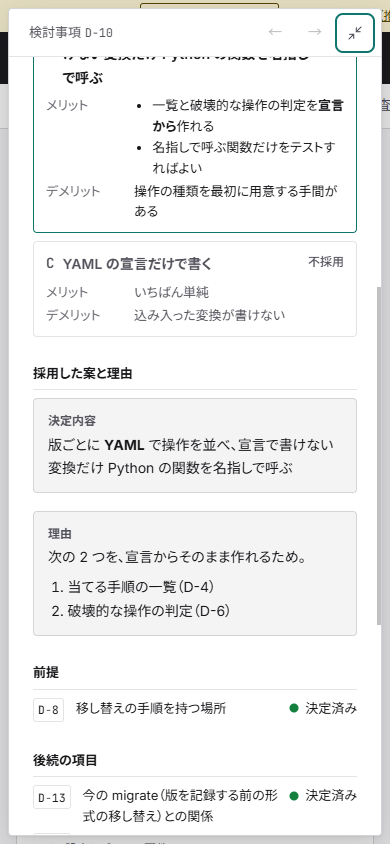
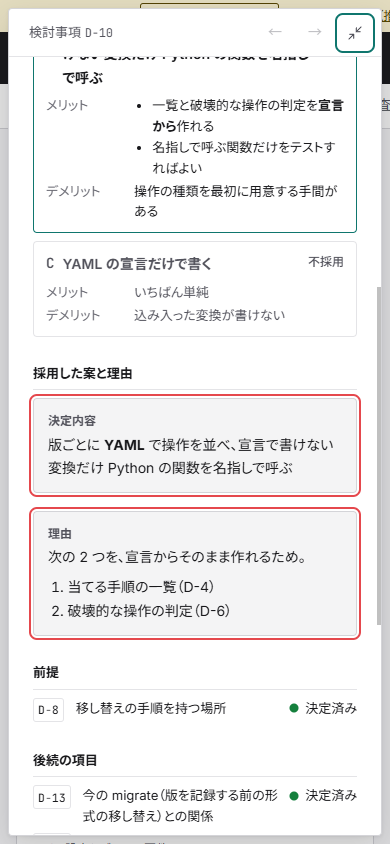
docs: 詳細の全画面のモックの撮影で推奨のバッジと採用した案と理由に赤枠を付けて撮り直す

Changed region(s): [[0.0615, 0.4621, 0.9231, 0.7701], [0.8923, 0.7393, 0.9231, 0.7701], [0.8923, 0.4621, 0.9231, 0.4929]]

diff --git a/dev/mock/refs/127/assets/mock.js b/dev/mock/refs/127/assets/mock.js
@@ -27,6 +27,17 @@
     }, 50);
   };
 
+  // 撮影用: クエリの `mark` に渡した CSS セレクタの要素に赤枠を付ける（撮影の枠はモーダルの上に重ならないため、モーダルの中の要素はこちらで示す）
+  const mark = new URLSearchParams(location.search).get("mark");
+  if (mark !== null) {
+    const timer = setInterval(() => {
+      const targets = document.querySelectorAll(mark);
+      if (targets.length === 0) return;
+      clearInterval(timer);
+      for (const target of targets) target.classList.add("mock-mark");
+    }, 100);
+  }
+
   whenDrawn(() => {
     // ドロワーを開いた見本
     if (body.dataset.open === "drawer") document.querySelector("[data-act='filter']")?.click();

diff --git a/dev/mock/refs/127/assets/style.css b/dev/mock/refs/127/assets/style.css
@@ -50,3 +50,6 @@ body:has(> .mockbar) :is(.panel, .comments-panel, .settings-drawer, dialog.drawe
 .rec-line { display: flex; align-items: center; gap: 6px; margin: 0 0 10px; color: var(--text-2); font-size: var(--fs-small); }
 .rec-line svg.icon { width: 14px; height: 14px; color: var(--accent); }
 .rec-line b { color: var(--text); }
+
+/* ===== 撮影用の赤枠（モック専用。クエリの mark で付ける） ===== */
+.mock-mark { outline: 2px solid #e5484d; outline-offset: 2px; }
